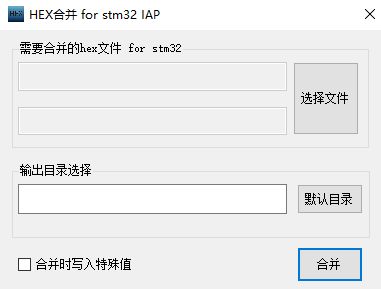
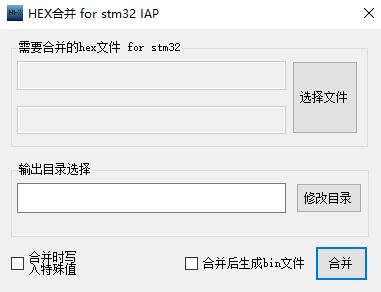
Update Project  Function
add hex2bin function to project

diff --git a/Hex文件合并/Form1.cs b/Hex文件合并/Form1.cs
@@ -166,34 +166,44 @@ namespace Hex文件合并
             string str1, str2;
             str1 = textBox1.Text.Trim();
             str2 = textBox2.Text.Trim();
-            if (str1 == str2)
+            if ((str1 == str2) && (str1==""))
             {
-                MessageBox.Show("please select diffirent file", "error");
+                MessageBox.Show("please select one file at least", "error");
                 return;
             }
-            if(str1=="")
-            {
-                MessageBox.Show("please select bootloader file", "error");
-                return;
-            }
-            if (str2 == "")
-            {
-                MessageBox.Show("please select app file", "error");
-                return;
-            }
-            Debug.WriteLine(str1);
-            Debug.WriteLine(str2);
+
             StreamReader fileReader=null;
             StreamWriter Newfile = null;
-            
+            DataLineMessage line = new DataLineMessage();
+            string savepath = GetNewPathForDupes(textOutPath.Text);
             try
             {
-                DataLineMessage line = new DataLineMessage();
-                textOutPath.Text = GetNewPathForDupes(textOutPath.Text);
+                if(str1=="")
+                {
+                    File.Copy(str2, savepath);
+                    MessageBox.Show("没有bootloader文件，不支持特殊字节写入", "Tips");
+                    //checkBox1.Checked = false;
+                    if (checkBox2.Checked == true)//确定是否合并文件
+                    {
+                        ReadHexFile(savepath);
+                    }
+                    return;
+                }
+                else if (str2 == "")
+                {
+                    File.Copy(str1, savepath);
+                    MessageBox.Show("没有APP文件，不支持特殊字节写入", "Tips");
+                    //checkBox1.Checked = false;
+                    if (checkBox2.Checked == true)//确定是否合并文件
+                    {
+                        ReadHexFile(savepath);
+                    }
+                    return;
+                }
 
                 //读取文件一
                 fileReader = new StreamReader(str1);
-                Newfile = new StreamWriter(textOutPath.Text);
+                Newfile = new StreamWriter(savepath);
                 string strline = null;
                 UInt32 Nowaddr=0;
                 do
@@ -201,7 +211,6 @@ namespace Hex文件合并
                     strline = fileReader.ReadLine();
                     if (ParaseFileLine(strline, out line))
                     {
-
                         if(line.type==0x01)//结束标志
                         {
                             break;
@@ -216,17 +225,17 @@ namespace Hex文件合并
                                 }
                                 else
                                 {
-                                    checkBox1.Checked = false;
-                                    MessageBox.Show("bootloader过大，不支持特殊字节写入");
+                                   // checkBox1.Checked = false;
+                                    MessageBox.Show("bootloader过大，不支持特殊字节写入","自动跳过写入特殊字节");
                                 }
                                 
                             }
-                            Newfile.WriteLine(strline);
+                            Newfile.WriteLine(strline);//继续保存该行数据
                         }
                         else//数据等
                         {
                             Nowaddr = line.addr;
-                            Newfile.WriteLine(strline);
+                            Newfile.WriteLine(strline);//保存数据
                         }
                     }
                     else
@@ -244,6 +253,10 @@ namespace Hex文件合并
                     Newfile.WriteLine(strline);
                 } while (strline != null);
                 MessageBox.Show("merge successful");
+                if (checkBox2.Checked == true)//确定是否合并文件
+                {
+                    ReadHexFile(savepath);
+                }
             }
             catch (Exception ex)
             {
@@ -258,10 +271,90 @@ namespace Hex文件合并
                 if (Newfile != null)
                 {
                     Newfile.Close();
-                } 
+                }
             }
         }
+        public bool ReadHexFile(string fileName)
+        {
+            if (fileName == null || fileName.Trim() == "")  //文件存在
+            {
+                return false;
+            }
+            using (FileStream fs = new FileStream(fileName, FileMode.Open))  //open file
+            {
+                StreamReader HexReader = new StreamReader(fs);    //读取数据流
+                string szLine = "";
+                string szHex = "";
+                string szAddress = "";
+                string szLength = "";
+                while (true)
+                {
+                    szLine = HexReader.ReadLine();      //读取Hex中一行
+                    if (szLine == null) { break; }          //读取完毕，退出
+                    if (szLine.Substring(0, 1) == ":")    //判断首字符是”:”
+                    {
+                        if (szLine.Substring(1, 8) == "00000001") { break; }  //文件结束标识
+                        //直接解析数据类型标识为 : 00 和 01 的格式
+                        if ((szLine.Substring(8, 1) == "0") || (szLine.Substring(8, 1) == "1"))
+                        {
+                            szHex += szLine.Substring(9, szLine.Length - 11);  //所有数据分一组 
+                            szAddress += szLine.Substring(3, 4); //所有起始地址分一组
+                            szLength += szLine.Substring(1, 2); //所有数据长度归一组
+                        }
+                    }
+                }
+                //将数据字符转换为Hex，并保存在数组 szBin[]
+                Int32 j = 0;
+                Int32 Length = szHex.Length;      //获取长度
+                byte[] szBin = new byte[Length / 2];
+                for (Int32 i = 0; i < Length; i += 2)
+                {
+                    szBin[j] = (byte)Int16.Parse(szHex.Substring(i, 2), System.Globalization.NumberStyles.HexNumber);   //两个字符合并一个Hex 
+                    j++;
+                }
+                //将起始地址的字符转换为Hex，并保存在数组 szAdd []
+                j = 0;
+                Length = szAddress.Length;      //get bytes number of szAddress
+                Int32[] szAdd = new Int32[Length / 4];
+                for (Int32 i = 0; i < Length; i += 4)
+                {
+                    szAdd[j] = Int32.Parse(szAddress.Substring(i, 4), System.Globalization.NumberStyles.HexNumber);  //两个字符合并一个Hex
+                    j++;
+                }
+                //将长度字符转换为Hex，并保存在数组 szLen []
+                j = 0;
+                Length = szLength.Length;      //get bytes number of szAddress
+                byte[] szLen = new byte[Length / 2];
+                for (Int32 i = 0; i < Length; i += 2)
+                {
+                    szLen[j] = (byte)Int16.Parse(szLength.Substring(i, 2), System.Globalization.NumberStyles.HexNumber); // merge two bytes to a hex number
+                    j++;
+                }
+                array_save_data(szAdd, szBin, szLen, Path.ChangeExtension(fileName, "bin"));   //保存为bin
+            }
+            return true;
+        }
+        private void array_save_data(Int32[] address, byte[] data, byte[] length,string Path)
+        {
+            //1.整理数据所需参数
+            int jcount = 0;
+            int max_address = (address[(address.Length) - 1]) + 16;
+            byte[] all_show_data = new byte[max_address];  //存储解析完成的数据数组
+            for (Int32 i = 0; i < all_show_data.Length; i++) { all_show_data[i] = 255; }  //默认全为0
 
+            //2.从address[]数组中获取HEX对应地址
+            for (Int32 i = 0; i < address.Length; i++)
+            {
+                if (i >= 1) { jcount += length[i - 1]; }  //从length[]数组中获取数据对应的长度大小
+                for (int j = 0; j < length[i]; j++)
+                {
+                    all_show_data[address[i] + j] = data[jcount + j]; //all_show_data[]数组中添加数据
+                }
+            }
+            FileStream fs = new FileStream(Path, FileMode.Create);
+            fs.Write(all_show_data, 0, all_show_data.Length);
+            fs.Close();
+        }
         #region 字符串转换函数
         //翻转byte数组
         public static void ReverseBytes(byte[] bytes)

diff --git a/Hex文件合并/Form1.Designer.cs b/Hex文件合并/Form1.Designer.cs
@@ -39,6 +39,7 @@
             this.groupBox1 = new System.Windows.Forms.GroupBox();
             this.groupBox2 = new System.Windows.Forms.GroupBox();
             this.btn_help = new System.Windows.Forms.Button();
+            this.checkBox2 = new System.Windows.Forms.CheckBox();
             this.groupBox1.SuspendLayout();
             this.groupBox2.SuspendLayout();
             this.SuspendLayout();
@@ -63,9 +64,9 @@
             // 
             // btn_merge
             // 
-            this.btn_merge.Location = new System.Drawing.Point(297, 217);
+            this.btn_merge.Location = new System.Drawing.Point(316, 217);
             this.btn_merge.Name = "btn_merge";
-            this.btn_merge.Size = new System.Drawing.Size(66, 35);
+            this.btn_merge.Size = new System.Drawing.Size(53, 35);
             this.btn_merge.TabIndex = 2;
             this.btn_merge.Text = "合并";
             this.btn_merge.UseVisualStyleBackColor = true;
@@ -95,18 +96,18 @@
             this.btn_outpath.Name = "btn_outpath";
             this.btn_outpath.Size = new System.Drawing.Size(66, 30);
             this.btn_outpath.TabIndex = 5;
-            this.btn_outpath.Text = "默认目录";
+            this.btn_outpath.Text = "修改目录";
             this.btn_outpath.UseVisualStyleBackColor = true;
             this.btn_outpath.Click += new System.EventHandler(this.btn_outpath_Click);
             // 
             // checkBox1
             // 
             this.checkBox1.AutoSize = true;
-            this.checkBox1.Location = new System.Drawing.Point(18, 227);
+            this.checkBox1.Location = new System.Drawing.Point(12, 221);
             this.checkBox1.Name = "checkBox1";
-            this.checkBox1.Size = new System.Drawing.Size(120, 16);
+            this.checkBox1.Size = new System.Drawing.Size(72, 28);
             this.checkBox1.TabIndex = 6;
-            this.checkBox1.Text = "合并时写入特殊值";
+            this.checkBox1.Text = "合并时写\r\n入特殊值\r\n";
             this.checkBox1.UseVisualStyleBackColor = true;
             this.checkBox1.CheckedChanged += new System.EventHandler(this.checkBox1_CheckedChanged);
             // 
@@ -135,7 +136,7 @@
             // 
             // btn_help
             // 
-            this.btn_help.Location = new System.Drawing.Point(190, 222);
+            this.btn_help.Location = new System.Drawing.Point(90, 220);
             this.btn_help.Name = "btn_help";
             this.btn_help.Size = new System.Drawing.Size(62, 29);
             this.btn_help.TabIndex = 9;
@@ -143,11 +144,22 @@
             this.btn_help.UseVisualStyleBackColor = true;
             this.btn_help.Click += new System.EventHandler(this.btn_help_Click);
             // 
+            // checkBox2
+            // 
+            this.checkBox2.AutoSize = true;
+            this.checkBox2.Location = new System.Drawing.Point(186, 227);
+            this.checkBox2.Name = "checkBox2";
+            this.checkBox2.Size = new System.Drawing.Size(126, 16);
+            this.checkBox2.TabIndex = 10;
+            this.checkBox2.Text = "合并后生成bin文件";
+            this.checkBox2.UseVisualStyleBackColor = true;
+            // 
             // Form1
             // 
             this.AutoScaleDimensions = new System.Drawing.SizeF(6F, 12F);
             this.AutoScaleMode = System.Windows.Forms.AutoScaleMode.Font;
-            this.ClientSize = new System.Drawing.Size(385, 260);
+            this.ClientSize = new System.Drawing.Size(385, 266);
+            this.Controls.Add(this.checkBox2);
             this.Controls.Add(this.btn_help);
             this.Controls.Add(this.groupBox2);
             this.Controls.Add(this.groupBox1);
@@ -180,6 +192,7 @@
         private System.Windows.Forms.GroupBox groupBox1;
         private System.Windows.Forms.GroupBox groupBox2;
         private System.Windows.Forms.Button btn_help;
+        private System.Windows.Forms.CheckBox checkBox2;
     }
 }
 
